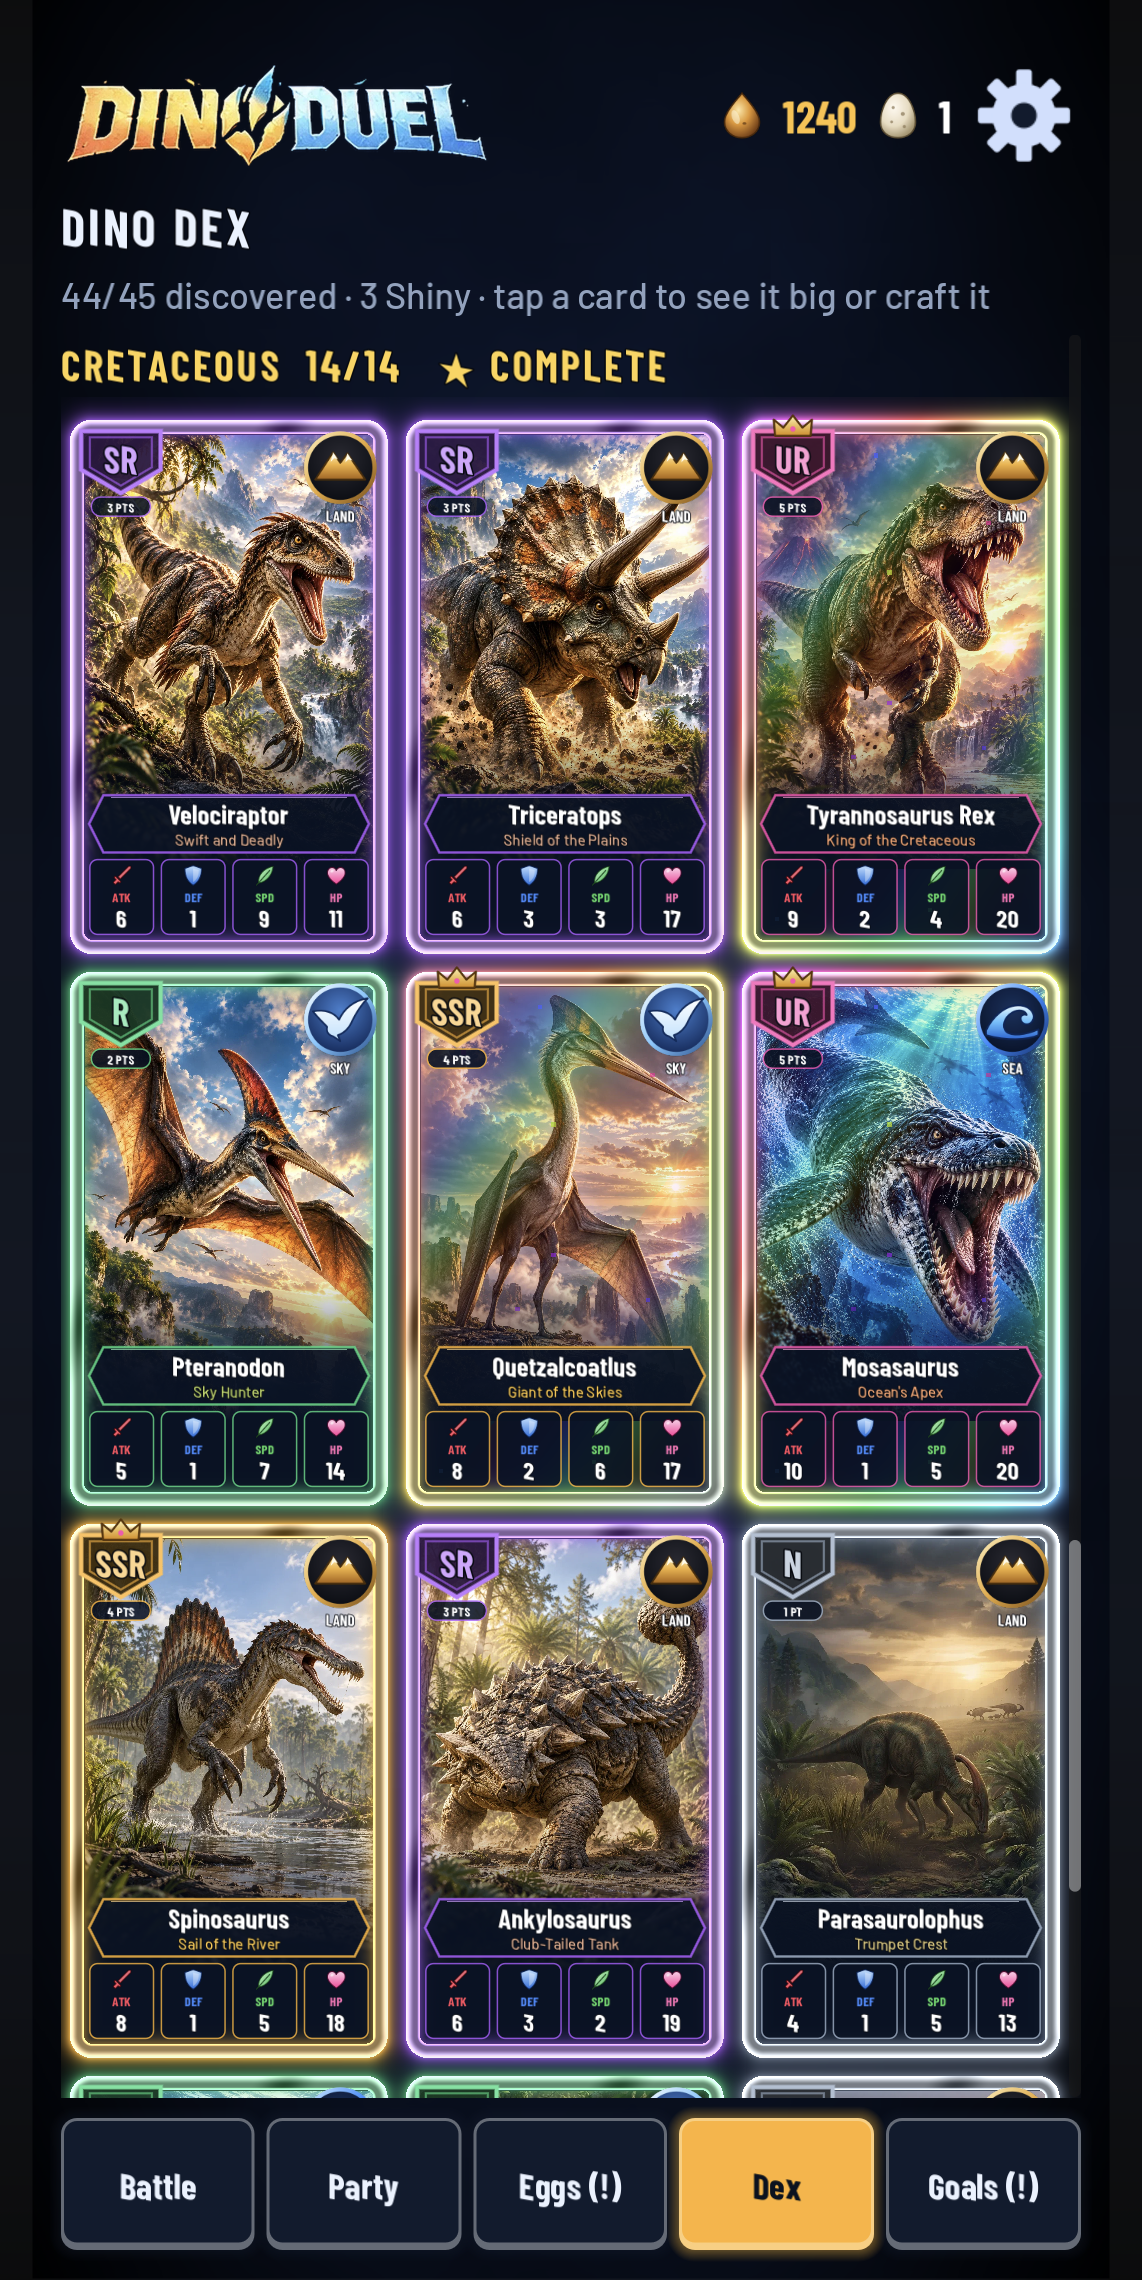
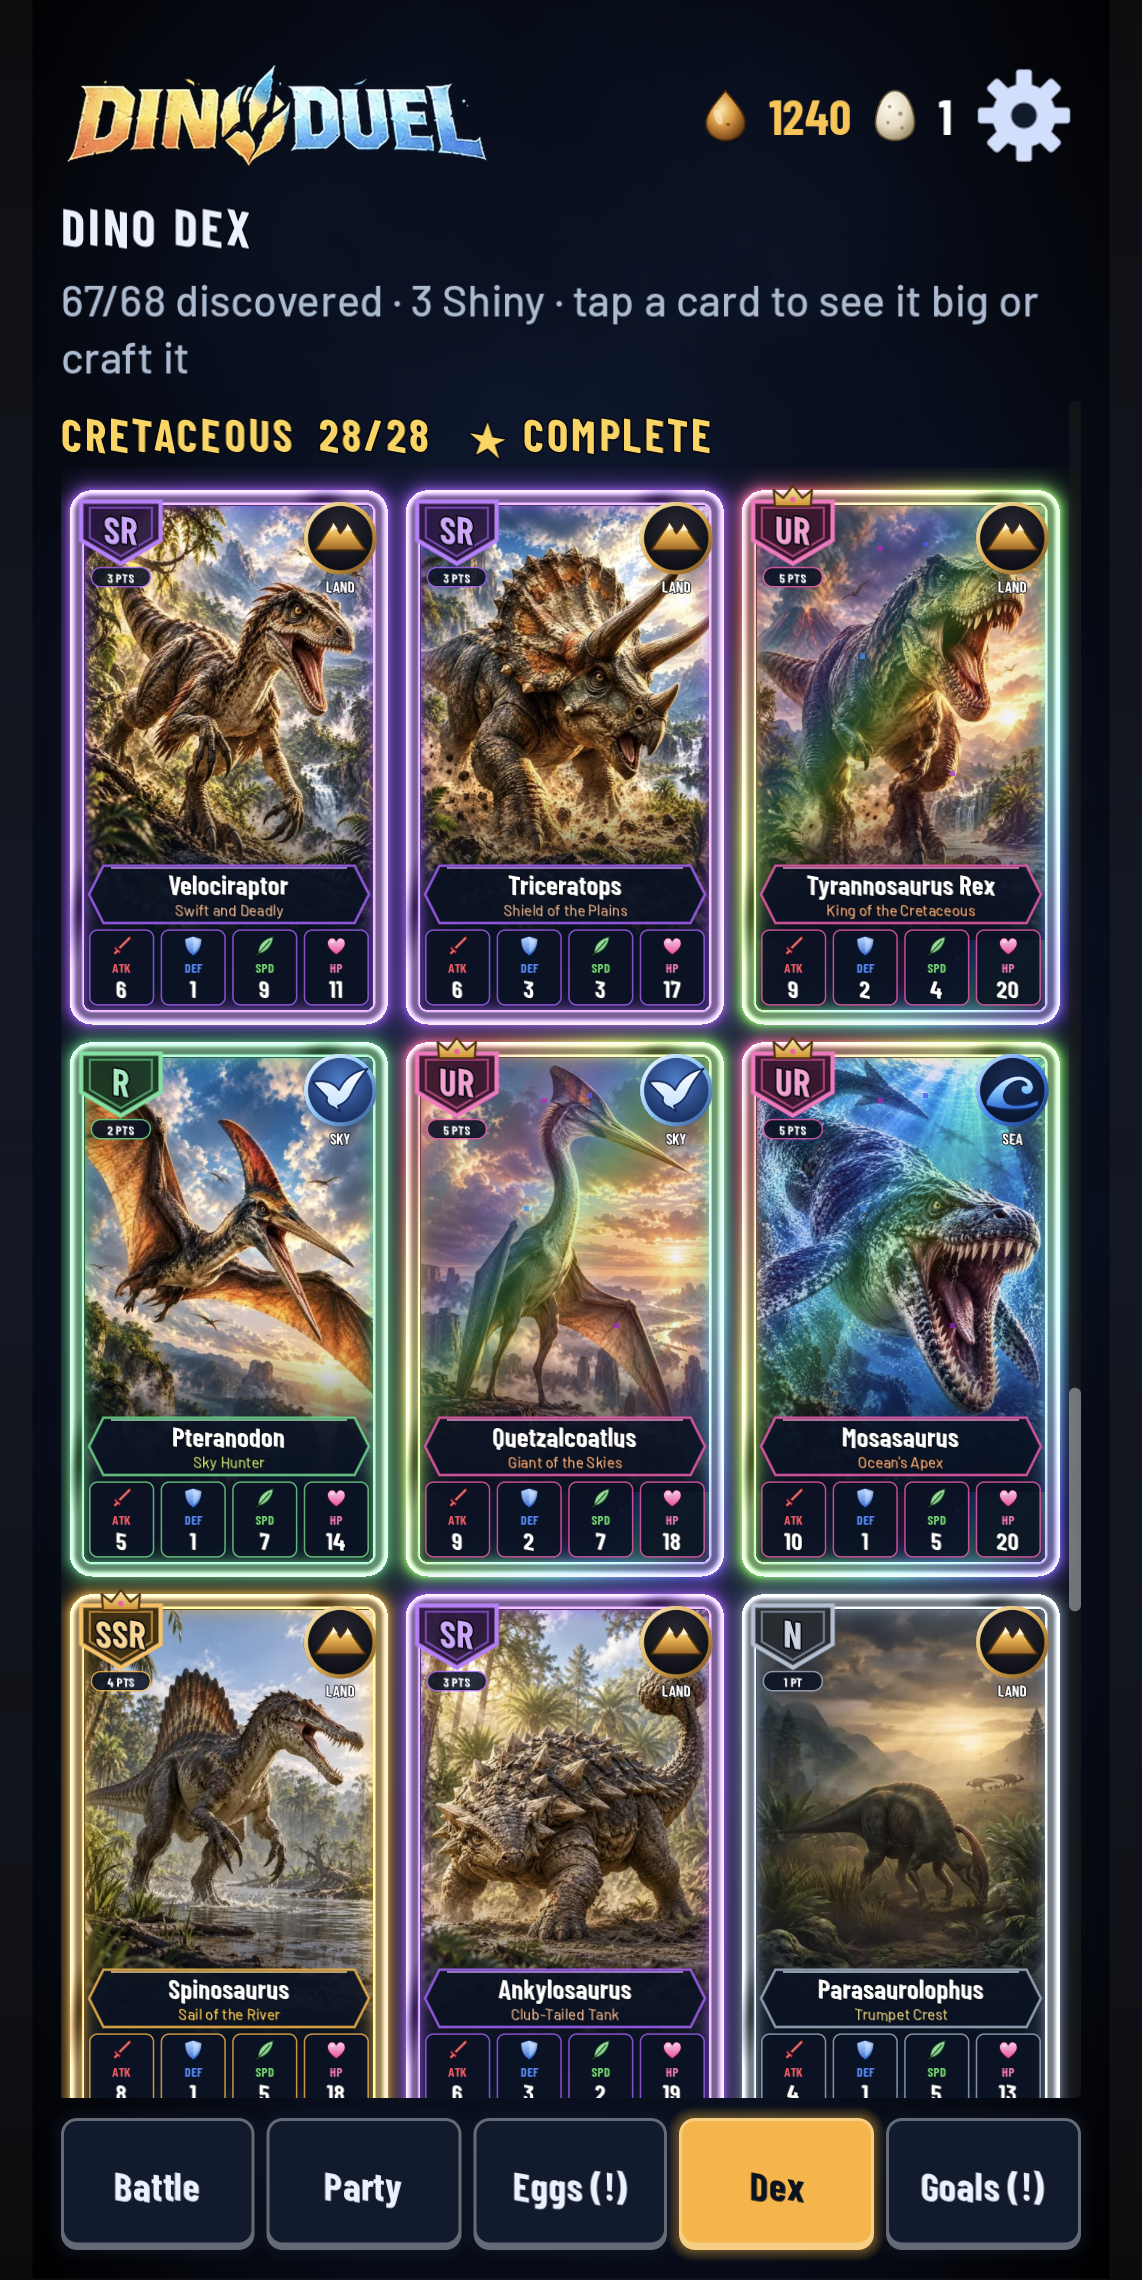
New store screenshots for 0.6.0, website gallery, and a README
- Play set (8): battle, Journey map, Legendary hatch, Shiny T. rex,
  Rival Rory's popup, Dex (68), coached first battle, Goals. Battle intro,
  check-in and partner pick in screenshots/extra for the website.
- Website: a Journey feature card and 11 screenshots.
- README.md with a description and screenshot gallery for the GitHub page.

diff --git a/docs/index.html b/docs/index.html
@@ -39,6 +39,7 @@
   .feature p { margin: 0; color: var(--dim); }
   .shots { display: flex; gap: 16px; overflow-x: auto; padding: 4px 0 16px; scroll-snap-type: x mandatory; }
   .shots img { flex: 0 0 auto; width: 210px; height: auto; border-radius: 14px; border: 1px solid var(--border); scroll-snap-align: start; }
+  .hint { color: var(--dim); font-size: 0.95em; margin: 0; }
   footer { margin: 40px 0 0; padding: 24px 0 40px; border-top: 1px solid var(--border); color: var(--dim); font-size: 0.95em; }
   footer nav { display: flex; flex-wrap: wrap; gap: 8px 24px; margin-bottom: 8px; }
   @media (max-width: 600px) {
@@ -59,12 +60,16 @@
 
     <section class="features" aria-label="Features">
       <div class="feature">
+        <h3>A journey through time</h3>
+        <p>Battle from the Triassic to the meteor. Fifteen rivals with habits to read, and Rory waiting at the end of every era with an Alpha creature.</p>
+      </div>
+      <div class="feature">
         <h3>Collect 65+ creatures</h3>
         <p>Dinosaurs, pterosaurs and sea reptiles from the Triassic, Jurassic and Cretaceous, from Common to Legendary, plus rare Shiny cards.</p>
       </div>
       <div class="feature">
         <h3>Hatch fossil eggs</h3>
-        <p>Win battles to earn clutches of eggs. Each egg's glow shows how rare it is before it hatches.</p>
+        <p>Every win earns a clutch of eggs. Each egg's glow shows how rare it is before it hatches.</p>
       </div>
       <div class="feature">
         <h3>Mind games, not luck</h3>
@@ -79,11 +84,19 @@
     <section aria-label="Screenshots">
       <h2>Screenshots</h2>
       <div class="shots">
-        <img src="site/01_battle.jpg" alt="A battle against Rival Rory" width="420" height="839" loading="lazy">
-        <img src="site/02_hatch_legendary.jpg" alt="Hatching a Legendary Cymbospondylus" width="420" height="839" loading="lazy">
-        <img src="site/03_card_t_rex_shiny.jpg" alt="The Shiny Tyrannosaurus Rex card" width="420" height="839" loading="lazy">
-        <img src="site/04_choose_partner.jpg" alt="Choosing a partner dino" width="420" height="839" loading="lazy">
+        <img src="site/01_battle.jpg" alt="A battle: both sides pick Bite, Charge, Brace or Swap at the same time" width="420" height="839" loading="lazy">
+        <img src="site/02_journey.jpg" alt="The Journey map through the Jurassic, with a rival at every stop" width="420" height="839" loading="lazy">
+        <img src="site/03_hatch_legendary.jpg" alt="Hatching a Legendary Cymbospondylus" width="420" height="839" loading="lazy">
+        <img src="site/04_card_t_rex_shiny.jpg" alt="The Shiny Tyrannosaurus Rex card" width="420" height="839" loading="lazy">
+        <img src="site/05_rival_rory.jpg" alt="Rival Rory, the boss of the Triassic, with his Alpha Liliensternus" width="420" height="839" loading="lazy">
+        <img src="site/06_dex_cretaceous.jpg" alt="The Dino Dex: 68 prehistoric creatures" width="420" height="839" loading="lazy">
+        <img src="site/07_coached_first_battle.jpg" alt="A coach teaches the moves in your first battle" width="420" height="839" loading="lazy">
+        <img src="site/08_goals.jpg" alt="Daily check-in, quests and collection rewards" width="420" height="839" loading="lazy">
+        <img src="site/09_battle_intro.jpg" alt="Rival Rory wants to battle!" width="420" height="839" loading="lazy">
+        <img src="site/10_checkin.jpg" alt="The daily check-in, building to a Rare clutch on day 7" width="420" height="839" loading="lazy">
+        <img src="site/11_choose_partner.jpg" alt="Choosing your partner dino" width="420" height="839" loading="lazy">
       </div>
+      <p class="hint">Swipe or scroll sideways for more.</p>
     </section>
   </main>
 

diff --git a/README.md b/README.md
@@ -1,0 +1,33 @@
+# Dino Duel
+
+A dinosaur card-battle game for Android: hatch fossil eggs, collect 65+ prehistoric creatures, and battle your way from the Triassic to the meteor in quick mind-game duels.
+
+**Website:** https://johanlee2000.github.io/DinoDuel/ · **Privacy policy:** https://johanlee2000.github.io/DinoDuel/privacy-policy.html
+
+<p>
+  <img src="docs/site/01_battle.jpg" alt="A battle: both sides pick Bite, Charge, Brace or Swap at the same time" width="200">
+  <img src="docs/site/02_journey.jpg" alt="The Journey map through the Jurassic, with a rival at every stop" width="200">
+  <img src="docs/site/03_hatch_legendary.jpg" alt="Hatching a Legendary Cymbospondylus" width="200">
+  <img src="docs/site/04_card_t_rex_shiny.jpg" alt="The Shiny Tyrannosaurus Rex card" width="200">
+  <img src="docs/site/05_rival_rory.jpg" alt="Rival Rory, the boss of the Triassic, with his Alpha Liliensternus" width="200">
+  <img src="docs/site/06_dex_cretaceous.jpg" alt="The Dino Dex: 68 prehistoric creatures" width="200">
+  <img src="docs/site/07_coached_first_battle.jpg" alt="A coach teaches the moves in your first battle" width="200">
+  <img src="docs/site/08_goals.jpg" alt="Daily check-in, quests and collection rewards" width="200">
+  <img src="docs/site/09_battle_intro.jpg" alt="Rival Rory wants to battle!" width="200">
+  <img src="docs/site/10_checkin.jpg" alt="The daily check-in, building to a Rare clutch on day 7" width="200">
+  <img src="docs/site/11_choose_partner.jpg" alt="Choosing your partner dino" width="200">
+</p>
+
+## The game
+
+- **A journey through time.** Three illustrated era maps and a finale: 15 rivals, each with a habit to read, and your rival Rory waiting at the end of every era with an Alpha creature. Earn stars for dinos left standing and fill star chests.
+- **Mind games, not luck.** Bring six, see your rival's six, pick three. Each turn both sides secretly choose Bite, Charge, Brace or Swap: Bite beats Charge, Charge smashes Brace, Brace blocks Bite, Swap goes first.
+- **Land, Sky and Sea.** Land beats Sky, Sky beats Sea, Sea beats Land. Era bonds and balanced parties give bonuses.
+- **Collect 68 creatures** in five tiers, N to UR, each a painted card with its real size, era and a fossil fact. Shiny versions, crafting with Amber, sets, a daily check-in, daily quests and 21 achievements.
+- **Offline, no ads, no paid random packs.** Progress is saved on the phone.
+
+## Built with
+
+Godot 4.7 (GDScript), for Android, in portrait. The battle and collection rules are plain, UI-free code (`core/`) with their own tests and simulators: an AI-vs-AI balance report and simulated players that tune the Journey's difficulty. See [CLAUDE.md](CLAUDE.md) for the layout and commands, and [docs/GAME_DESIGN.md](docs/GAME_DESIGN.md) for the design.
+
+© 2026 Dino Duel Studios

diff --git a/docs/store/STORE_LISTING.md b/docs/store/STORE_LISTING.md
@@ -48,7 +48,7 @@ Draft text and answers for Play Console. Jo edits the wording; character limits 
 |---|---|---|
 | App icon | `assets/branding/app_icon_512.png` | 512 x 512 PNG |
 | Feature graphic | `feature_graphic.png` (rendered by `tools/feature_graphic.tscn`) | 1024 x 500 PNG/JPEG, no alpha |
-| Phone screenshots | `screenshots/01..08_*.png` (1142 x 2280; Journey, Dex and Goals retaken 2026-10-15 for 0.6.0) | 2-8 images, 320-3840 px, at most 2:1 |
+| Phone screenshots | `screenshots/01..08_*.png` (1142 x 2280; 2026-10-15 for 0.6.0: battle, Journey map, Legendary hatch, Shiny T. rex, Rory, Dex, coached battle, Goals). More in `screenshots/extra/` for the website | 2-8 images, 320-3840 px, at most 2:1 |
 
 Screenshots come from the phone with the debug-only `--store-shots` showcase save (see `app/session.gd`), so the DEV button never appears. To retake, put the flags in `user://dev_args.txt` on the phone (adb push + `run-as ... cp`), relaunch, and `adb exec-out screencap -p`. Delete `dev_args.txt` afterwards or every launch uses it.
 
